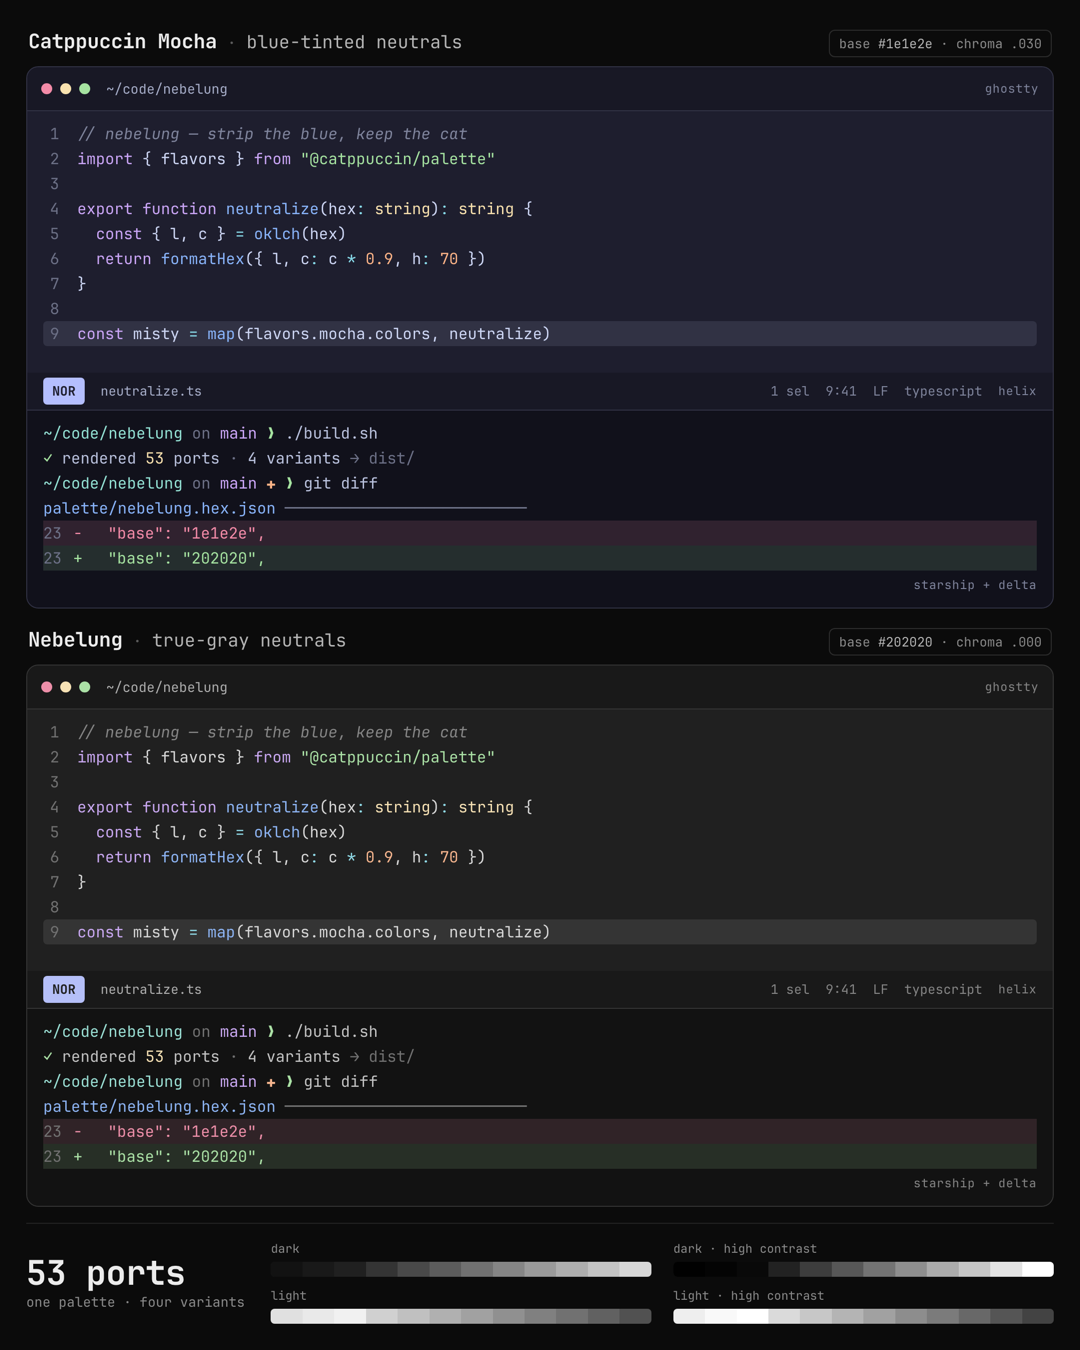
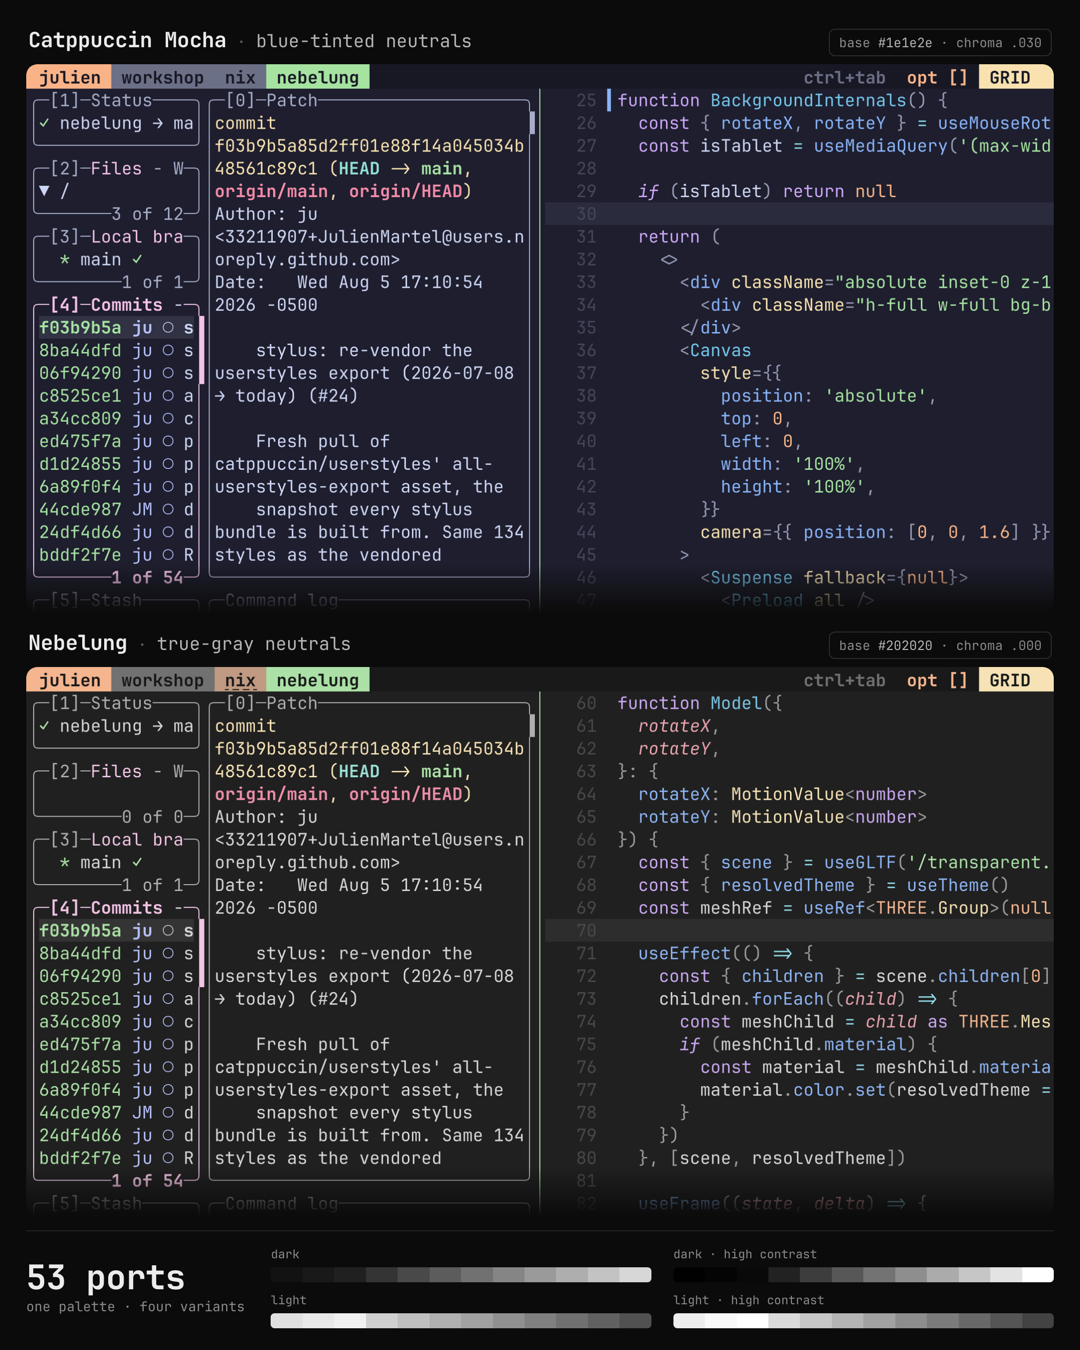
README: build the hero out of the real Mocha/Nebelung screenshots
The hero was a CSS mockup of a terminal. It's now the actual pair of shots of
the same zellij session — lazygit and Neovim in Ghostty — one running
Catppuccin Mocha, one running Nebelung, cropped to the same rect and stacked
4:5. Sources kept in assets/scenes/ so the composition stays regenerable.

Everything drawn around them is still generated from the repo: the labels' base
hexes and measured OKLCH chroma, the four variant ramps, the port count.

Claude-Session: https://claude.ai/code/session_016e3XEiemhHfTg9xf79soDy

diff --git a/docs/palette.md b/docs/palette.md
@@ -10,9 +10,9 @@ palette/
   nebelung-*.json     # …and the same pair per variant
 scripts/
   generate-palette.mjs# regenerates every variant via OKLCH color math
-  gen-hero.mjs        # re-renders the README hero from the live palette
+  gen-hero.mjs        # recomposes the README hero from the live palette
 templates/            # vendored upstream port .tera templates
-assets/               # README images (the hero is generated, not drawn)
+assets/               # README images (hero composed from assets/scenes/)
 dist/                 # rendered themes, ready to install (variants in subdirs)
 preview/*.html        # visual swatch + mockup per variant, through whiskers
 ports.conf            # port manifest: name | template | output | extra args
@@ -52,16 +52,20 @@ Re-run `node scripts/generate-palette.mjs` (or `./build.sh`) and re-open
 
 ## The README hero
 
-`assets/mocha-vs-nebelung.png` is generated too — one scene (a Ghostty window
-running Helix, Starship and delta) rendered twice, Mocha above and Nebelung
-below, over the *current* palette, with the four variant ramps and the port
-count in the footer. Nothing in it is hand-drawn or hand-typed, so a palette
-change or a new port can't leave it lying:
+`assets/mocha-vs-nebelung.png` is composed, not drawn. The two halves are real
+screenshots of the same zellij session — lazygit and Neovim in Ghostty — one
+running Catppuccin Mocha, one running Nebelung; they live in `assets/scenes/`
+(2048px wide, cropped to the same rect). Everything around them — the labels,
+each base's measured OKLCH chroma, the four variant ramps, the port count —
+comes from `palette/` and `ports.meta.json`, so a recolor or a new port can't
+leave the hero lying:
 
 ```bash
 node scripts/gen-hero.mjs          # → assets/mocha-vs-nebelung.png (1080×1350)
 node scripts/gen-hero.mjs --html   # stop at the throwaway HTML, to iterate on it
 ```
 
-macOS-only for now: it screenshots with headless Google Chrome at 2x and
-downscales with `sips`.
+Reshooting the scenes is the one manual step: same window, same session, flip
+the theme between the two shots, crop both to the same rect. macOS-only for
+now — it screenshots with headless Google Chrome at 2x and downscales with
+`sips`.

diff --git a/README.md b/README.md
@@ -10,7 +10,7 @@ into 53 ports.
 ![part of nebelhaus](https://img.shields.io/badge/part_of-nebelhaus-f2c4e5?labelColor=202020)
 ![license](https://img.shields.io/badge/license-MIT-d7d7d7?labelColor=202020)
 
-<img src="./assets/mocha-vs-nebelung.png" alt="the same Ghostty window — Helix, Starship and delta — in Catppuccin Mocha above and Nebelung below: blue-tinted neutrals versus true-gray neutrals, with the four variant ramps beneath" width="560">
+<img src="./assets/mocha-vs-nebelung.png" alt="the same zellij session — lazygit and Neovim in Ghostty — running Catppuccin Mocha above and Nebelung below: blue-tinted neutrals versus true-gray neutrals, with the four variant ramps beneath" width="560">
 
 </div>
 
